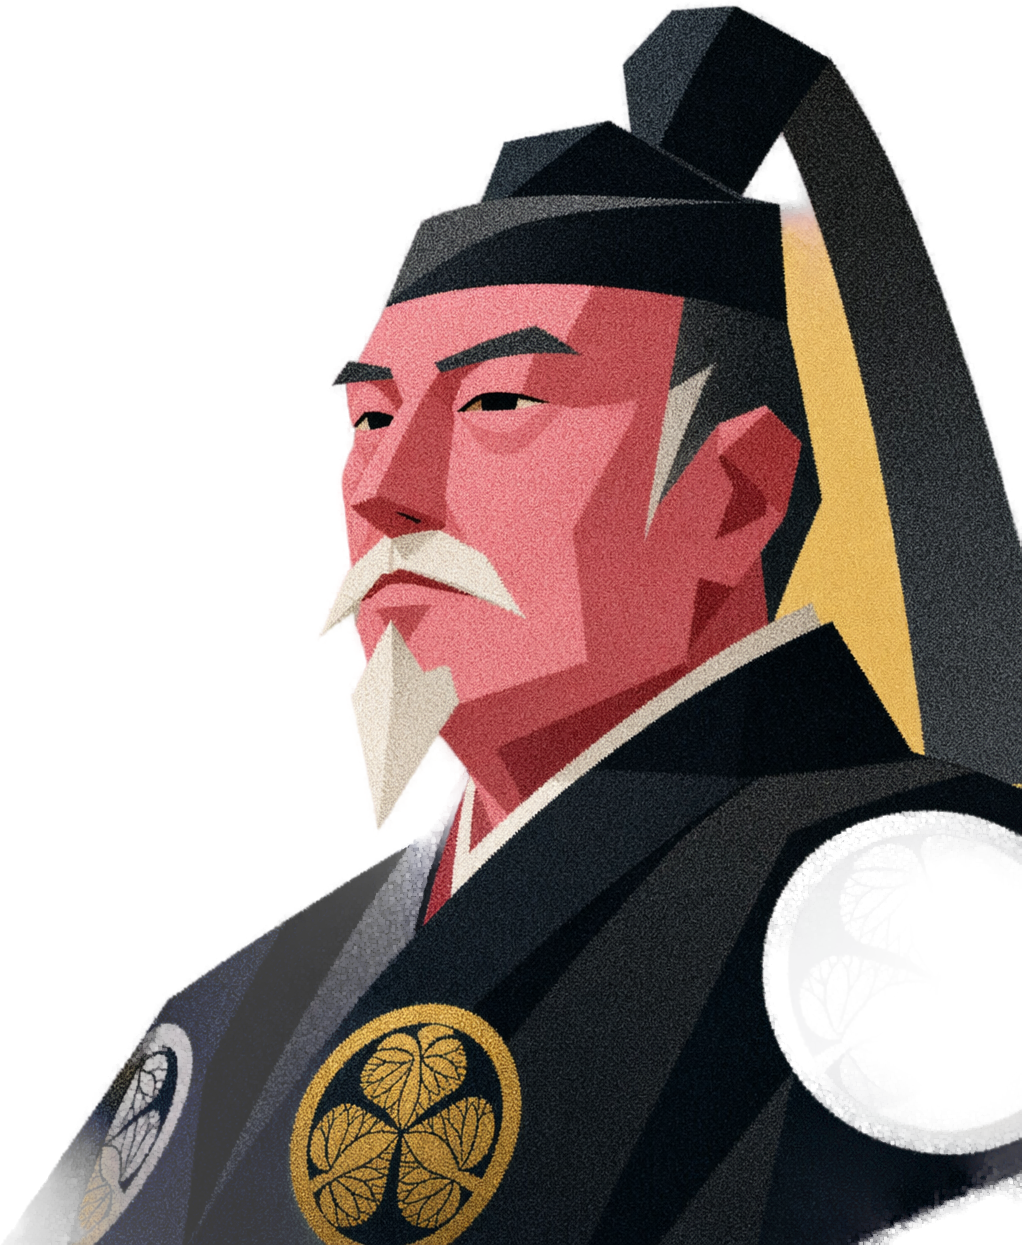
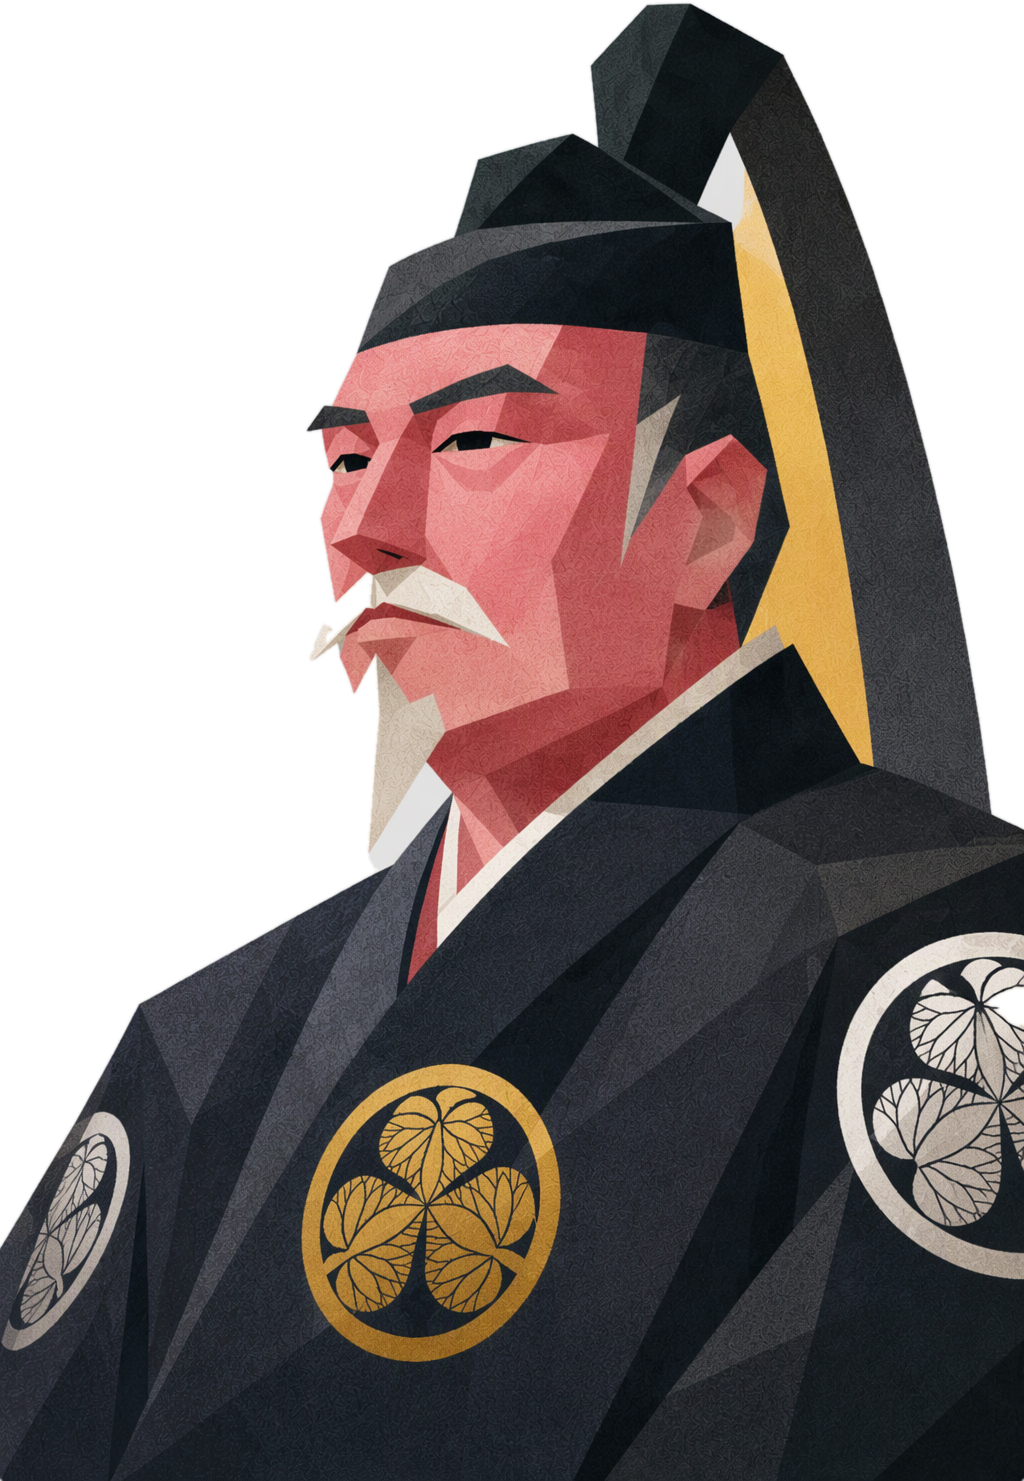
Regenerate broken character cutouts with gpt-image-2 (18 figures), fill 4 missing portraits

diff --git a/docs/app/index.html b/docs/app/index.html
@@ -4701,14 +4701,10 @@ const AVATAR_ADJUST_FRAME_PX = 320;
 const BATCH_ADJUST_START_SLUG = 'bjork';
 const PEOPLE_DEMOTED_SLUGS = new Set(['l']);
 const PEOPLE_EMPTY_IMAGE_SLUGS = new Set([
-  'banksy',
   'batman',
   'geralt-of-rivia',
   'joker',
-  'loki',
-  'makoto-shinkai',
   'spider-man',
-  'thor',
   'yayoi-kusama',
   'yoda'
 ]);
